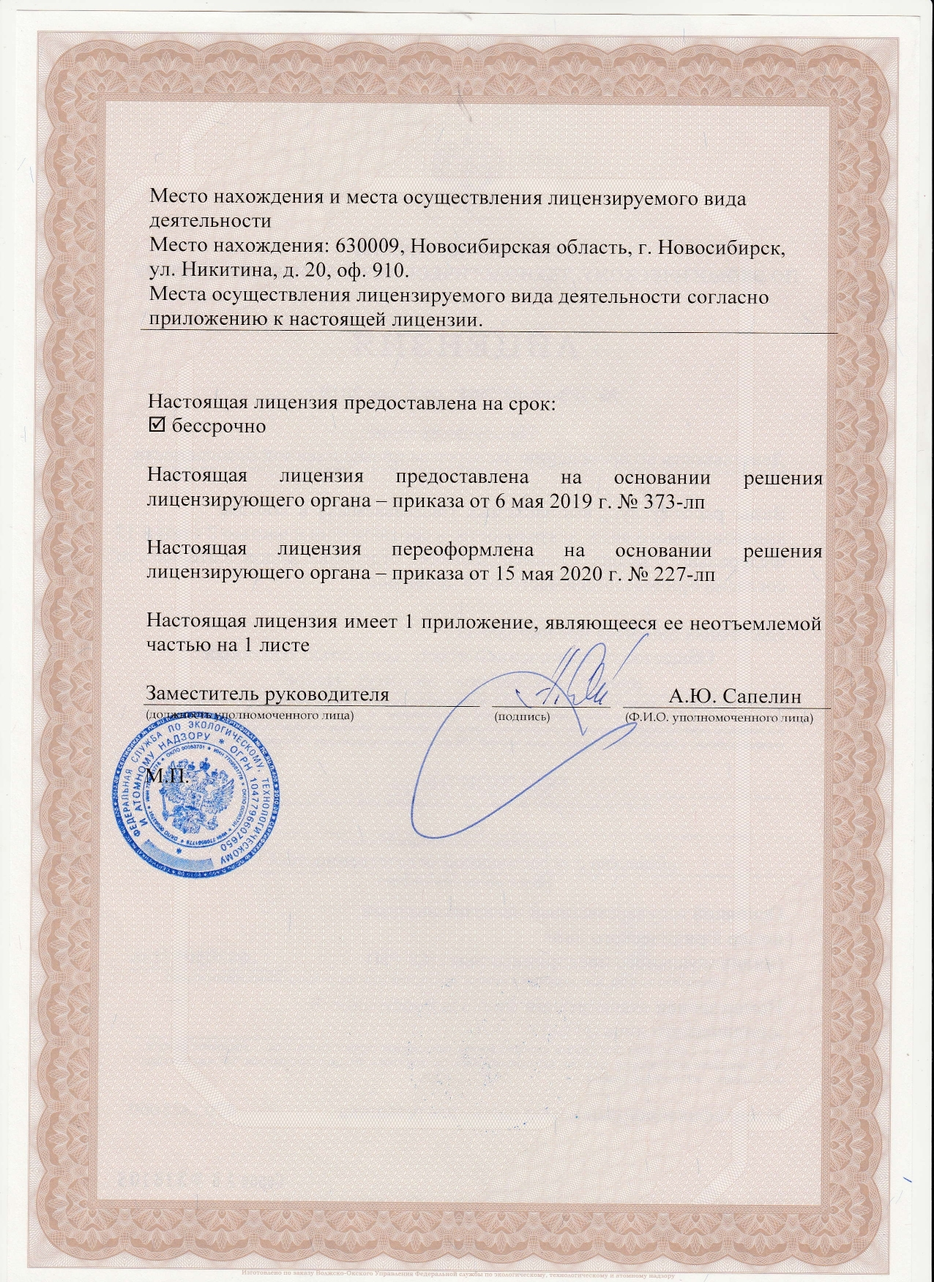
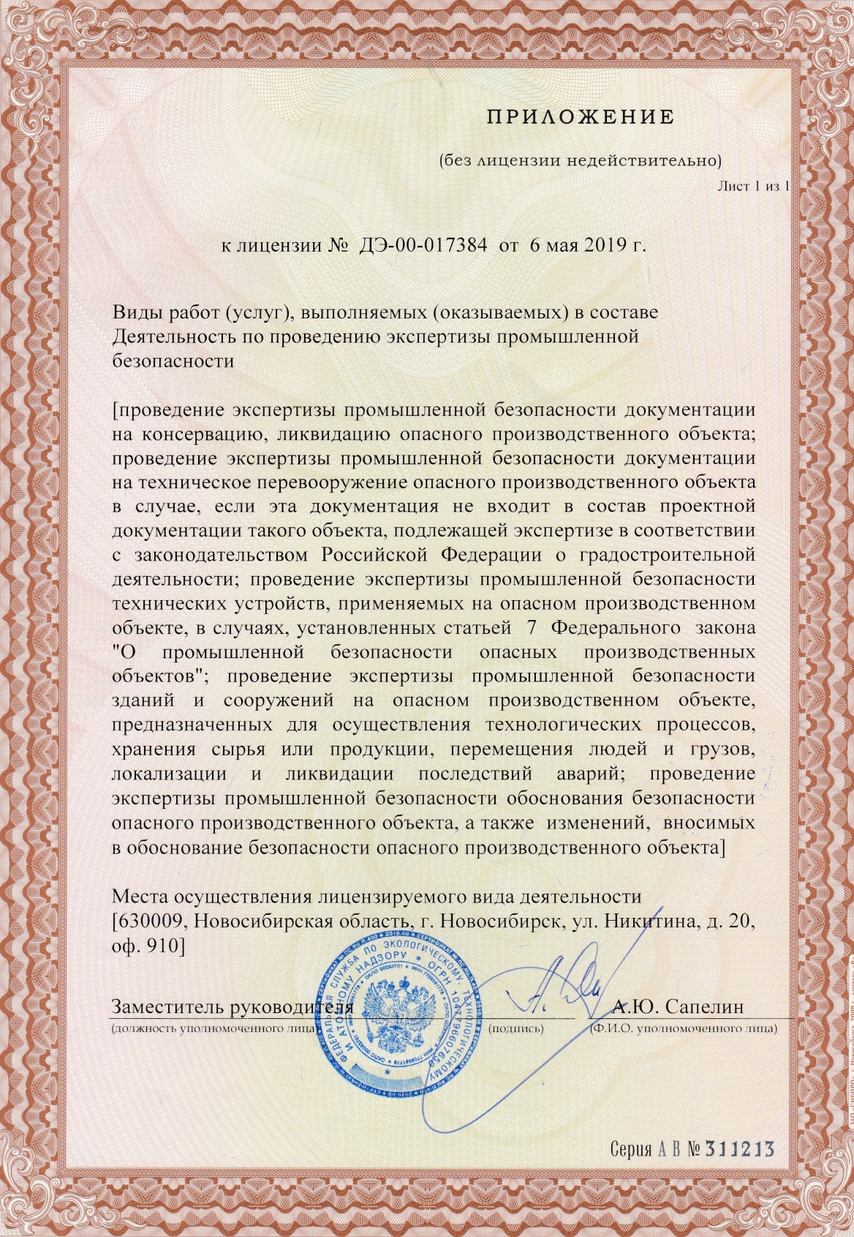
правки по сайту

diff --git a/frontend/src/widgets/svedeniya/platnye-obrazovatelnye-uslugi/index.tsx b/frontend/src/widgets/svedeniya/platnye-obrazovatelnye-uslugi/index.tsx
@@ -1,19 +1,37 @@
 import Card from "@/shared/ui/card";
 import DocsCard from "@/shared/ui/docs-card";
-import { GraduationCapIcon } from "@/shared/ui/icons";
+import { GraduationCapIcon, ProcedureDocumentIcon } from "@/shared/ui/icons";
 import NoteRow from "@/shared/ui/note-row";
 import SectionHeading from "@/shared/ui/section-heading";
 import { PLATNYE } from "./data";
+import styles from "./style.module.scss";
 
 const SvedeniyaPlatnye = () => {
-  const { title, note, docsTitle, docs } = PLATNYE;
+  const { title, note, procedure, docsTitle, docs } = PLATNYE;
 
   return (
     <>
       <SectionHeading title={title} />
 
       <Card gap={10}>
-        <NoteRow icon={<GraduationCapIcon />}>{note}</NoteRow>
+        <NoteRow icon={<GraduationCapIcon />} divider>
+          {note}
+        </NoteRow>
+
+        <div className={styles.procedure}>
+          <span className={styles.icon}>
+            <ProcedureDocumentIcon />
+          </span>
+
+          <div className={styles.content}>
+            <p className={styles.title}>{procedure.title}</p>
+            <p className={styles.text}>
+              {procedure.textBefore}
+              <strong className={styles.highlight}>{procedure.highlight}</strong>
+              {procedure.textAfter}
+            </p>
+          </div>
+        </div>
       </Card>
 
       <DocsCard title={docsTitle} docs={docs} />

diff --git a/frontend/src/shared/ui/icons/procedure-document-icon.tsx b/frontend/src/shared/ui/icons/procedure-document-icon.tsx
@@ -1,0 +1,46 @@
+import type { IconProps } from "./types";
+
+export const ProcedureDocumentIcon = ({ className }: IconProps) => (
+  <svg
+    className={className}
+    width="44"
+    height="44"
+    viewBox="0 0 44 44"
+    fill="none"
+    xmlns="http://www.w3.org/2000/svg"
+    aria-hidden="true"
+  >
+    <path
+      d="M13.75 6.4165H24.75L32.0833 13.7498V35.5832C32.0833 36.3125 31.7936 37.012 31.2779 37.5277C30.7622 38.0435 30.0627 38.3332 29.3333 38.3332H13.75C13.0207 38.3332 12.3212 38.0435 11.8055 37.5277C11.2897 37.012 11 36.3125 11 35.5832V9.1665C11 8.43717 11.2897 7.7377 11.8055 7.22197C12.3212 6.70625 13.0207 6.4165 13.75 6.4165Z"
+      stroke="#F69827"
+      strokeWidth="2.5"
+      strokeLinecap="round"
+      strokeLinejoin="round"
+    />
+    <path
+      d="M24.75 6.4165V13.7498H32.0833"
+      stroke="#F69827"
+      strokeWidth="2.5"
+      strokeLinecap="round"
+      strokeLinejoin="round"
+    />
+    <path
+      d="M16.5 20.1665H27.5"
+      stroke="#F69827"
+      strokeWidth="2"
+      strokeLinecap="round"
+    />
+    <path
+      d="M16.5 24.75H27.5"
+      stroke="#F69827"
+      strokeWidth="2"
+      strokeLinecap="round"
+    />
+    <path
+      d="M16.5 29.3335H22"
+      stroke="#F69827"
+      strokeWidth="2"
+      strokeLinecap="round"
+    />
+  </svg>
+);

diff --git a/frontend/src/widgets/svedeniya/platnye-obrazovatelnye-uslugi/data.ts b/frontend/src/widgets/svedeniya/platnye-obrazovatelnye-uslugi/data.ts
@@ -3,6 +3,13 @@ import type { DocLink } from "@/shared/ui/docs-card";
 export const PLATNYE = {
   title: "Платные образовательные услуги",
   note: "Образовательная организация предоставляет платные образовательные услуги в строгом соответствии с действующим законодательством Российской Федерации.",
+  procedure: {
+    title: "1. Порядок предоставления платных образовательных услуг",
+    textBefore: "Обучение осуществляется на основании ",
+    highlight: "договора",
+    textAfter:
+      " между образовательной организацией и обучающимся (или его законным представителем). Все условия оказания услуг регулируются внутренними нормативными актами.",
+  },
   docsTitle: "Документы",
   docs: [
     {

diff --git a/frontend/src/shared/ui/lightbox/index.tsx b/frontend/src/shared/ui/lightbox/index.tsx
@@ -1,6 +1,7 @@
 "use client";
 
-import { useEffect } from "react";
+import { useEffect, useState } from "react";
+import { createPortal } from "react-dom";
 import styles from "./style.module.scss";
 
 type LightboxProps = {
@@ -10,6 +11,12 @@ type LightboxProps = {
 };
 
 const Lightbox = ({ src, alt = "", onClose }: LightboxProps) => {
+  const [mounted, setMounted] = useState(false);
+
+  useEffect(() => {
+    setMounted(true);
+  }, []);
+
   useEffect(() => {
     const onKey = (event: KeyboardEvent) => {
       if (event.key === "Escape") onClose();
@@ -25,7 +32,9 @@ const Lightbox = ({ src, alt = "", onClose }: LightboxProps) => {
     };
   }, [onClose]);
 
-  return (
+  if (!mounted) return null;
+
+  return createPortal(
     <div
       className={styles.overlay}
       role="dialog"
@@ -50,7 +59,8 @@ const Lightbox = ({ src, alt = "", onClose }: LightboxProps) => {
         onClick={(event) => event.stopPropagation()}
         draggable={false}
       />
-    </div>
+    </div>,
+    document.body,
   );
 };
 

diff --git a/frontend/src/widgets/svedeniya/platnye-obrazovatelnye-uslugi/style.module.scss b/frontend/src/widgets/svedeniya/platnye-obrazovatelnye-uslugi/style.module.scss
@@ -1,0 +1,50 @@
+.procedure {
+  display: flex;
+  flex-direction: row;
+  align-items: flex-start;
+  gap: 10px;
+
+  width: 100%;
+}
+
+.icon {
+  flex: none;
+  display: inline-flex;
+}
+
+.content {
+  display: flex;
+  flex-direction: column;
+  gap: 10px;
+
+  flex: 1;
+  min-width: 0;
+}
+
+.title {
+  margin: 0;
+
+  font-family: "Gilroy";
+  font-style: normal;
+  font-weight: 700;
+  font-size: 16px;
+  line-height: 19px;
+
+  color: #000000;
+}
+
+.text {
+  margin: 0;
+
+  font-family: "Gilroy";
+  font-style: normal;
+  font-weight: 400;
+  font-size: 16px;
+  line-height: 19px;
+
+  color: #000000;
+}
+
+.highlight {
+  font-weight: 700;
+}

diff --git a/frontend/src/widgets/header/style.module.scss b/frontend/src/widgets/header/style.module.scss
@@ -63,8 +63,8 @@
   white-space: nowrap;
 
   color: #0b0b0b;
-  background: rgba(0, 0, 0, 0.004);
-  border: 1px solid rgba(246, 152, 39, 0.1);
+  background: transparent;
+  border: 1px solid transparent;
   border-radius: 40px;
   transition:
     color 0.15s ease,
@@ -116,8 +116,8 @@
   white-space: nowrap;
 
   color: #0b0b0b;
-  background: rgba(0, 0, 0, 0.004);
-  border: 1px solid rgba(246, 152, 39, 0.1);
+  background: transparent;
+  border: 1px solid transparent;
   border-radius: 40px;
   transition:
     color 0.15s ease,

diff --git a/frontend/src/shared/ui/icons/index.tsx b/frontend/src/shared/ui/icons/index.tsx
@@ -2,6 +2,7 @@ export { PhoneIcon } from "./phone-icon";
 export { MailIcon } from "./mail-icon";
 export { PersonIcon } from "./person-icon";
 export { DocumentIcon } from "./document-icon";
+export { ProcedureDocumentIcon } from "./procedure-document-icon";
 export { ChevronIcon } from "./chevron-icon";
 export { CertifiedMethodIcon } from "./certified-method-icon";
 export { OfficialCertificateIcon } from "./official-certificate-icon";

diff --git a/frontend/src/widgets/landing/activities/data.ts b/frontend/src/widgets/landing/activities/data.ts
@@ -43,7 +43,7 @@ export type MethodologyCardData = {
 };
 
 export const METHODOLOGY_CARD: MethodologyCardData = {
-  image: "/what_is_this/what_is_this_6.png",
+  image: "/nedra_doc_attest_metodica.jpg",
   title: "Методика измерения химической активности угля",
   number: "№ 149/RA.RU.310473/2026",
   points: [

diff --git a/frontend/src/widgets/landing/documents/data.ts b/frontend/src/widgets/landing/documents/data.ts
@@ -10,4 +10,11 @@ export const DOCUMENT_SLIDES = [
   "/docs/docs_3.jpg",
   "/docs/docs_4.jpg",
   "/docs/docs_5.jpg",
+  "/docs/docs_6.jpg",
+  "/docs/docs_7.jpg",
+  "/docs/docs_8.jpg",
+  "/docs/docs_9.jpg",
+  "/docs/docs_10.jpg",
+  "/docs/docs_11.jpg",
+  "/docs/docs_12.jpg",
 ];
